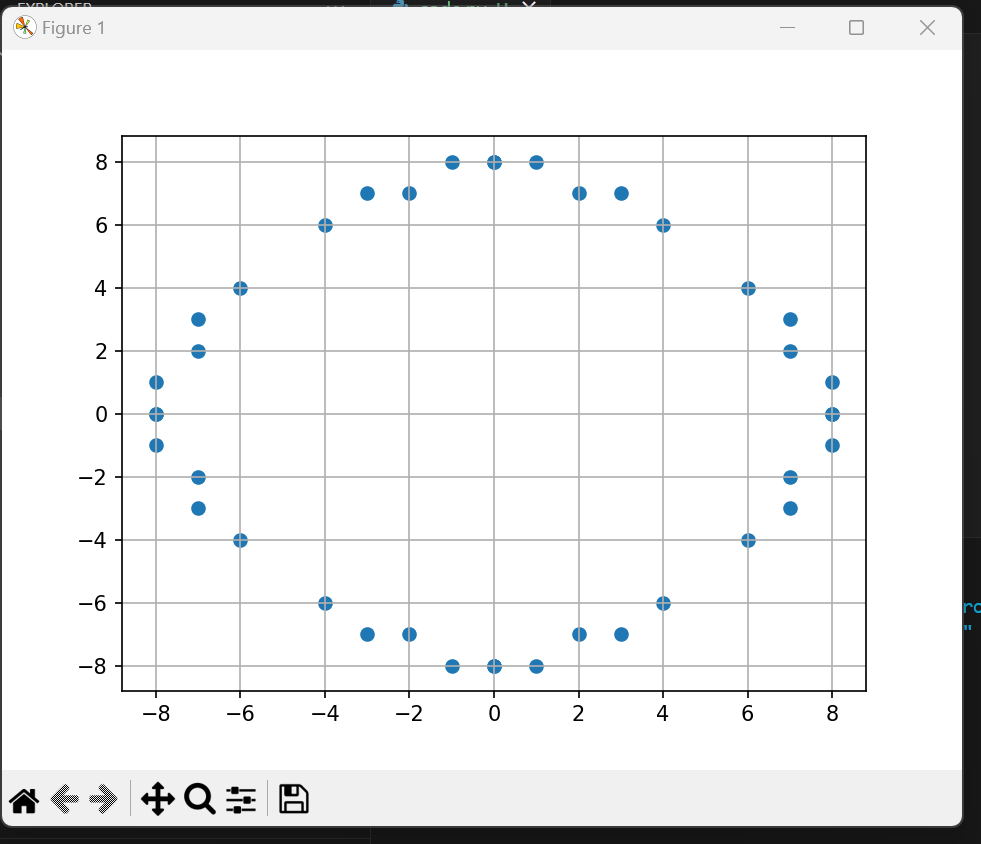
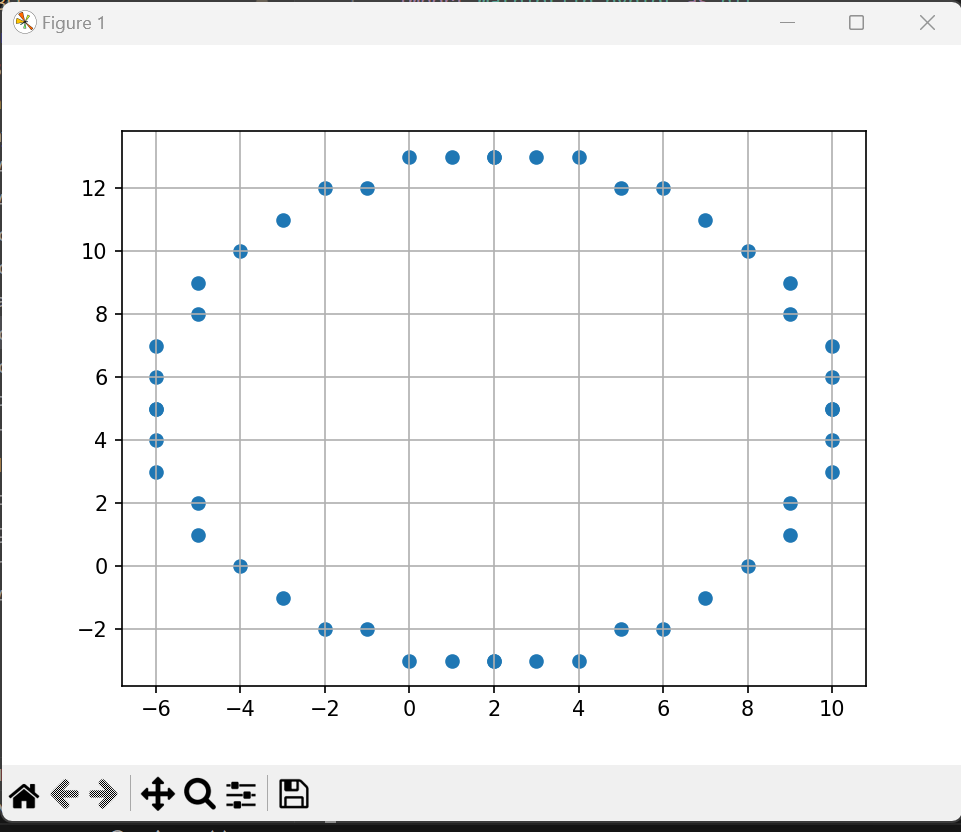
lab3 fix

diff --git a/Prayush_Koirala/Lab_3/code.py b/Prayush_Koirala/Lab_3/code.py
@@ -1,22 +1,25 @@
 import matplotlib.pyplot as plt
 
-def circle(r):
-    x=int(0)
-    y=int(r)
-    p=(1-r)
+def circle(r, x1, y1):
+    x = 0
+    y = r
+    p = 1 - r
     xes = []
     yes = []
-    while(x<y):
-        xes.extend([x,x,y,-y,-x,-x,-y,y])
-        yes.extend([y,-y,-x,-x,-y,y,x,x])
-        x= x + 1
-        if p<0 :
-            p = p + 2*x + 1
-        if p>=0 :
+    while x <= y:
+        xes.extend([x + x1, x + x1, y + x1, -y + x1, -x + x1, -x + x1, -y + x1, y + x1])
+        yes.extend([y + y1, -y + y1, -x + y1, -x + y1, -y + y1, y + y1, x + y1, x + y1])
+        x = x + 1
+        if p < 0:
+            p = p + 2 * x + 1
+        else:
             y = y - 1
-            p = p + 2*(x-y) + 1
+            p = p + 2 * (x - y) + 1
     plt.grid()
     plt.scatter(xes, yes, marker='o')
     plt.show()
-r=int(input("enter radius"))
-circle(r)
+
+r = int(input("Enter radius: "))
+x1 = int(input("Enter x coordinate of center: "))
+y1 = int(input("Enter y coordinate of center: "))
+circle(r, x1, y1)
